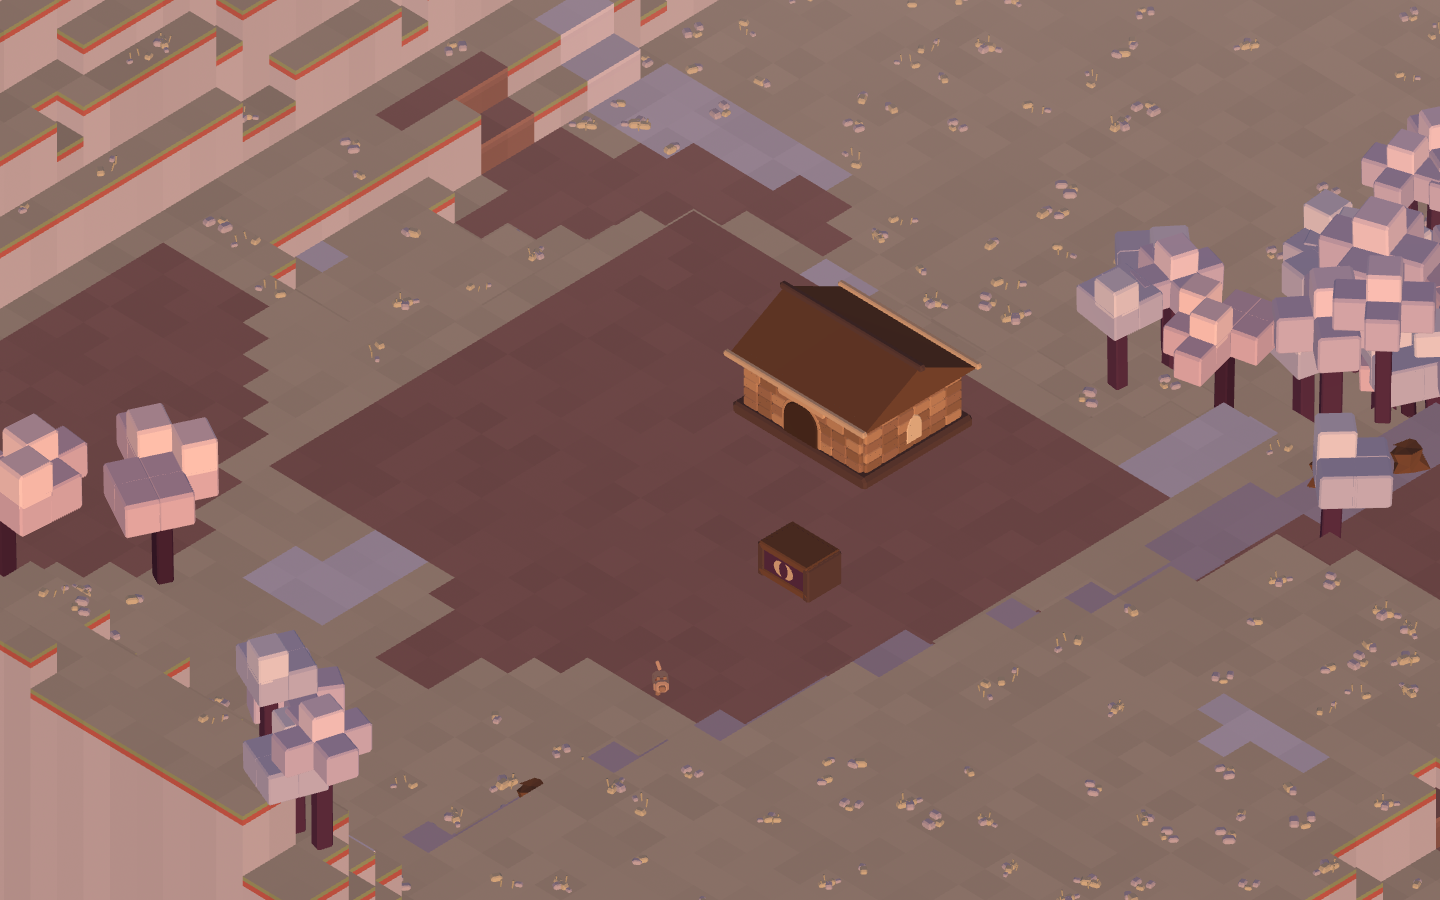
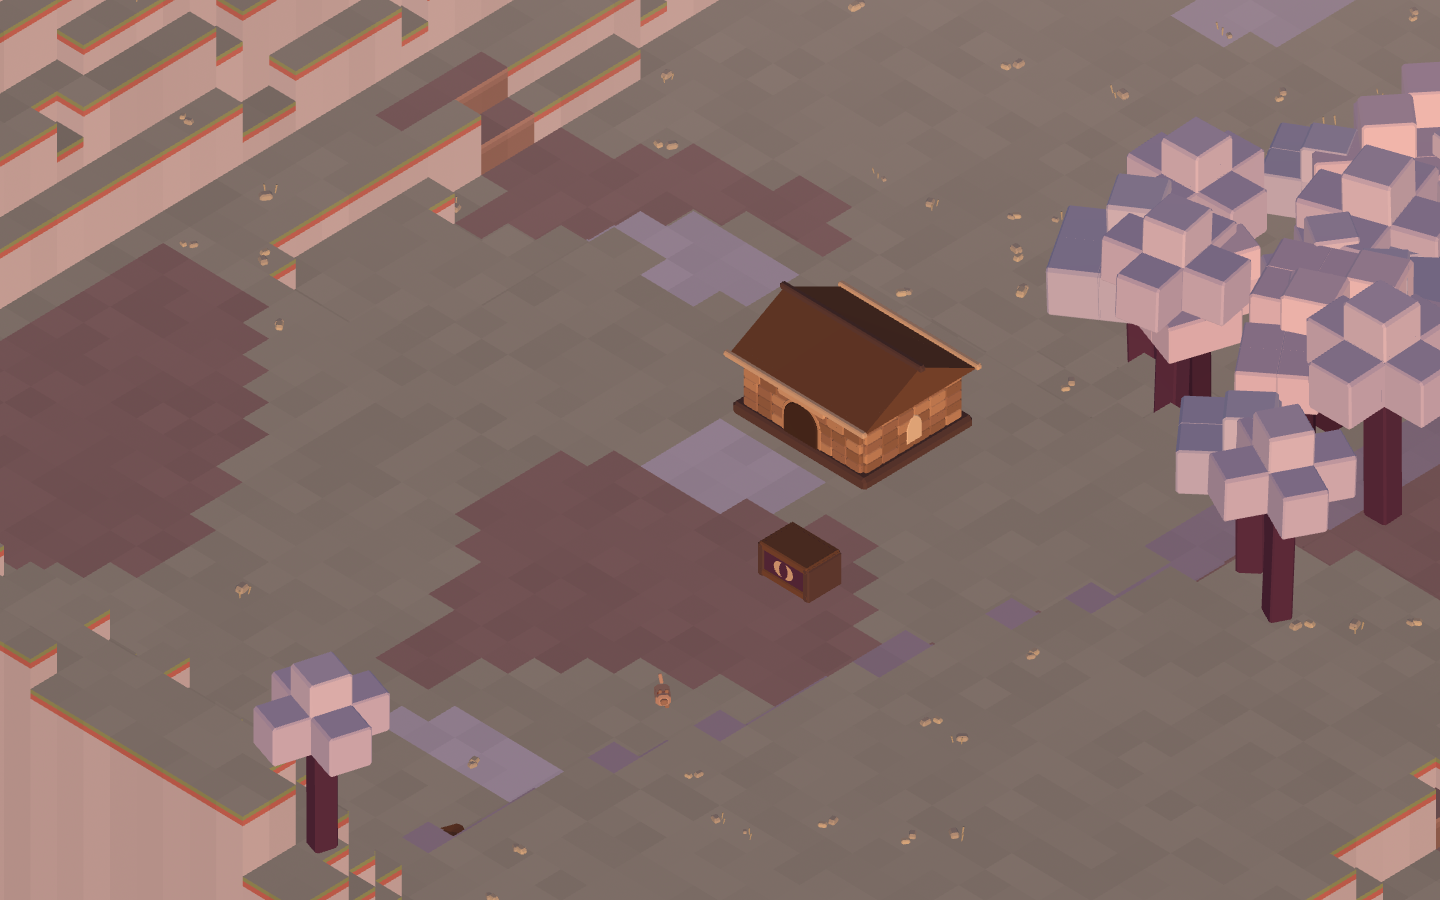
Final reference pass: cooler ground, bigger trees, no stamped clay pad
Composed the reference frame directly above a game capture and worked
the remaining differences off that rather than off memory:

- The ground is a cool sage-khaki, not warm sand. Mine read a full step
  more yellow than the footage.
- Canopies are BIG — 1.25-unit cubes on thicker, taller plum trunks —
  and lean periwinkle rather than pink. The lit-top tone was also too
  strong; the reference's canopies are near-uniform.
- Ground specks are sparse and warm. At the old density they read as
  noise over the flat plateaus that are the whole point of the look.
- The homestead pad now only FLATTENS the ground; it no longer repaints
  twenty by eighteen cells to clay. That rose rectangle sat under the
  camera and dominated every frame of play, and the reference has
  nothing like it — the player is about to till whatever they want there
  anyway.

diff --git a/src/core/palette.js b/src/core/palette.js
@@ -65,11 +65,11 @@ export const C = {
   // Trunks are dark plum, near-aubergine. Against a lilac cliff a brown trunk
   // reads as a mistake; the plum is what ties the trees into the ground.
   trunk: '#5a3550', trunkDark: '#482940',
-  canopyA: '#cfc6e0', canopyB: '#e0c8d8', canopyC: '#c6c8e2', canopyDead: '#b3a8b8',
+  canopyA: '#cdc9e4', canopyB: '#dcd0e4', canopyC: '#c2c6e2', canopyDead: '#b3a8b8',
   shrub: '#9aa878', shrubDeep: '#7c8a5e', grass: '#bdb694', grassDry: '#cfc7a8',
 
   // ---------------------------------------------------------------- props --
-  stoneProp: '#c2bcc8', stonePropDark: '#a89eb2',
+  stoneProp: '#bdb8a4', stonePropDark: '#a49f8e',
 
   // --------------------------------------------------------------- player --
   skin: '#e2b48f', hair: '#3a2b33',
@@ -99,15 +99,15 @@ export const C = {
 export const GROUND = {
   // Sand meadow. The one material with the full four-band read: a pale sand top,
   // a dappled olive lip, a rust band under it, and pale grey-lilac rock below.
-  MEADOW: ['#ded0b0', '#9aa877', '#c4685c', '#c9c5cf'],
+  MEADOW: ['#cdcdb2', '#93a56f', '#c4756a', '#cbc8d0'],
   // Snow. Near-white, and NO banding — the reference's snow plateaus are one
   // white top over one faintly cooler face, and adding strata to them is what
   // makes a snowfield look like striped rock.
   ASH: ['#eae7f0', '#e0dcea', '#d4cfe0', '#d9d5e4'],
   // Clay. A darker version of its own top, no rust, no olive.
-  LOAM: ['#b0857a', '#a0776c', '#946e66', '#8f6a62'],
+  LOAM: ['#bb9c92', '#ab8c82', '#9d7f76', '#94776e'],
   STONE: ['#c8c4cc', '#b8b3c2', '#a49eb0', '#b0aabe'],
-  SHORE: ['#e2d8be', '#d0c5a8', '#c0b096', '#cbc7d2'],
+  SHORE: ['#dcd6bc', '#cbc4a6', '#bcb094', '#cbc7d2'],
   TILLED: ['#8d6a55', '#7f5e4a', '#6f5140', '#6b4f42'],
   WET: ['#6b4c3e', '#604437', '#553c30', '#4e372c'],
   SCAR: ['#c9bcc8', '#b3a2b2', '#8d6f7e', '#bdaec2'],

diff --git a/src/world/props.js b/src/world/props.js
@@ -65,17 +65,17 @@ const CANOPY_PLANS = [
 
 function treeGeometry(kind) {
   const plan = CANOPY_PLANS[kind % CANOPY_PLANS.length]
-  const cube = 0.92 // one canopy cube, in world units
-  const trunkH = [3.4, 2.9, 2.4][kind % 3]
+  const cube = 1.25 // one canopy cube, in world units — the reference's are BIG
+  const trunkH = [4.2, 3.6, 3.0][kind % 3]
   const tone = [C.canopyA, C.canopyB, C.canopyC][kind % 3]
   const parts = [
     // The trunk is a BOX and it is thin. A tapered prism reads as a conifer.
-    { geometry: chamferBox(0.42, trunkH, 0.42, 0.04), position: [0, trunkH / 2, 0], color: kind === 1 ? C.trunkDark : C.trunk },
+    { geometry: chamferBox(0.62, trunkH, 0.62, 0.05), position: [0, trunkH / 2, 0], color: kind === 1 ? C.trunkDark : C.trunk },
   ]
   for (const [dx, dy, dz] of plan) {
     // Two tones inside one canopy, split by height, so the slab has a lit top
     // and a shaded underside without needing a second light.
-    const col = dy > 0 ? sunlit(tone, 0.35) : tone
+    const col = dy > 0 ? sunlit(tone, 0.14) : tone
     parts.push({
       geometry: chamferBox(cube, cube, cube, 0.05),
       position: [dx * cube * 0.94, trunkH + cube * (0.2 + dy * 0.86), dz * cube * 0.94],
@@ -114,7 +114,7 @@ function grassGeometry(kind) {
   // ground rather than as vegetation, and a field of proper grass tufts buries
   // the flat plateaus that are the whole point of the look.
   const parts = []
-  const stones = 2 + (kind % 3)
+  const stones = 1 + (kind % 2)
   for (let i = 0; i < stones; i++) {
     const a = cellRand(kind * 17, i, 21) * Math.PI * 2
     const r = 0.1 + cellRand(i, kind, 23) * 0.32

diff --git a/src/world/worldgen.js b/src/world/worldgen.js
@@ -239,7 +239,7 @@ export function generate(seed) {
       else if (h === WATER_LEVEL || (h === WATER_LEVEL + 1 && grid.nearWater(x, z))) g = G.SHORE
       else if (slope >= 2) g = G.ROCK
       else if (m > 0.62 && h < 12) g = G.LOAM
-      else if (patch(x * 0.17, z * 0.17) > 0.755) g = G.ASH
+      else if (patch(x * 0.15, z * 0.15) > 0.82) g = G.ASH
       else g = G.MEADOW
       grid.ground[i] = g
       // The fault itself is scarred ground: a one-cell band of burnt rock that
@@ -270,7 +270,7 @@ export function generate(seed) {
         // Geodes seed along the fault. They are the reason to walk it.
         grid.prop[i] = P.GEODE
         grid.propData[i] = randInt(r, 0, 3)
-      } else if ((g === G.MEADOW || g === G.ASH) && chance(r, 0.16)) {
+      } else if ((g === G.MEADOW || g === G.ASH) && chance(r, 0.075)) {
         grid.prop[i] = P.GRASS
         grid.propData[i] = randInt(r, 0, 3)
       }
@@ -293,7 +293,10 @@ export function generate(seed) {
         const edge = Math.min(x - x0, x0 + w - 1 - x, z - z0, z0 + d - 1 - z)
         grid.height[i] = edge >= 1 ? h : Math.round((grid.height[i] + h) / 2)
         grid.prop[i] = P.NONE
-        if (grid.ground[i] !== G.SCAR) grid.ground[i] = edge >= 1 ? G.LOAM : grid.ground[i]
+        // The pad FLATTENS the ground; it does not repaint it. Painting twenty
+        // by eighteen cells of clay put a rose rectangle under the camera that
+        // dominated every frame of play — the reference has nothing like it, and
+        // the player is about to till whatever they want here anyway.
       }
     }
     return h
